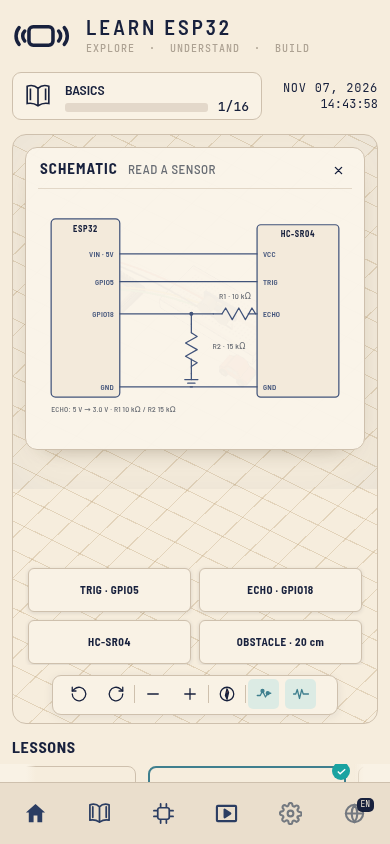
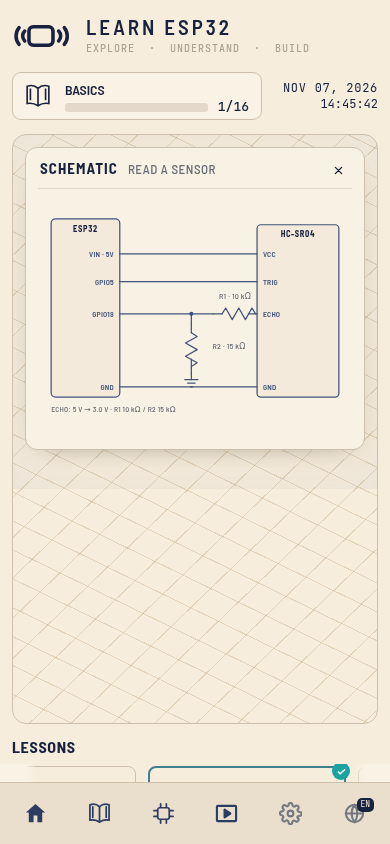
Keep ultrasonic schematic close control usable in landscape (#24)
* Retain final opaque schematic pixels and restore-interaction assertion

* Keep schematic close control usable above scrolling landscape diagram

---------

diff --git a/styles.css b/styles.css
@@ -765,3 +765,6 @@ html.reduce-motion .guide-controls #guideNext{transition:none}html.reduce-motion
 #stageWrap.distance-docked:has(.schematic.is-on) .leaders,
 #stageWrap.distance-docked:has(.schematic.is-on) #boardAnnotationDock,
 #stageWrap.distance-docked:has(.schematic.is-on) .toolbar{visibility:hidden;pointer-events:none}
+#stageWrap.distance-docked .sch-head{flex-shrink:0;position:sticky;top:0;z-index:2;background:#f8f2e5;align-items:center}
+#stageWrap.distance-docked .sch-close{width:44px;height:44px;flex-shrink:0}
+#stageWrap.distance-docked .sch-body{display:block;flex-shrink:0;min-height:auto}

diff --git a/docs/distance-dock/README.md b/docs/distance-dock/README.md
@@ -16,6 +16,8 @@ js/i18n.js SHA256 f31c85a1dfbbc4fd49df72c2443ac2da28c5eee14eb71d41924bedd370d63c
 
 js/lessons.js SHA256 67e4a06505b0d6f0384181fd1d7f1f49b713d7ac892cdbdc26dadd15650066d3
 
-styles.css SHA256 2d6d11d4f71eccc2374e305cf495e85d705483e77816ead0a4d057017d84c18e
+styles.css SHA256 5c72af52095d458afa91cfd4312a1c1a55c41ca5ba6ee5b8426682ef1ad919ca
 
 Final schematic pixel review caught faint model showing through soft-card background. Distance schematic now has opaque background; model, tags, dock and toolbar are suppressed while it is open. Close restores interaction. This correction is runtime, not evidence-only.
+
+Final opaque-schematic correctionPR23 merged6040f8baf33d5ec7d8dd1601e185c3be36db236d. Hosted390 hidden model/dock and restoration pass; landscape exposed header/body overlap blocking Close, fixed with nonshrinking sticky44px header and nonshrinking diagram body. Final hosted rerun required, and final schematic pixels supersede earlier translucent capture. CSS served byte-identical after correction.
